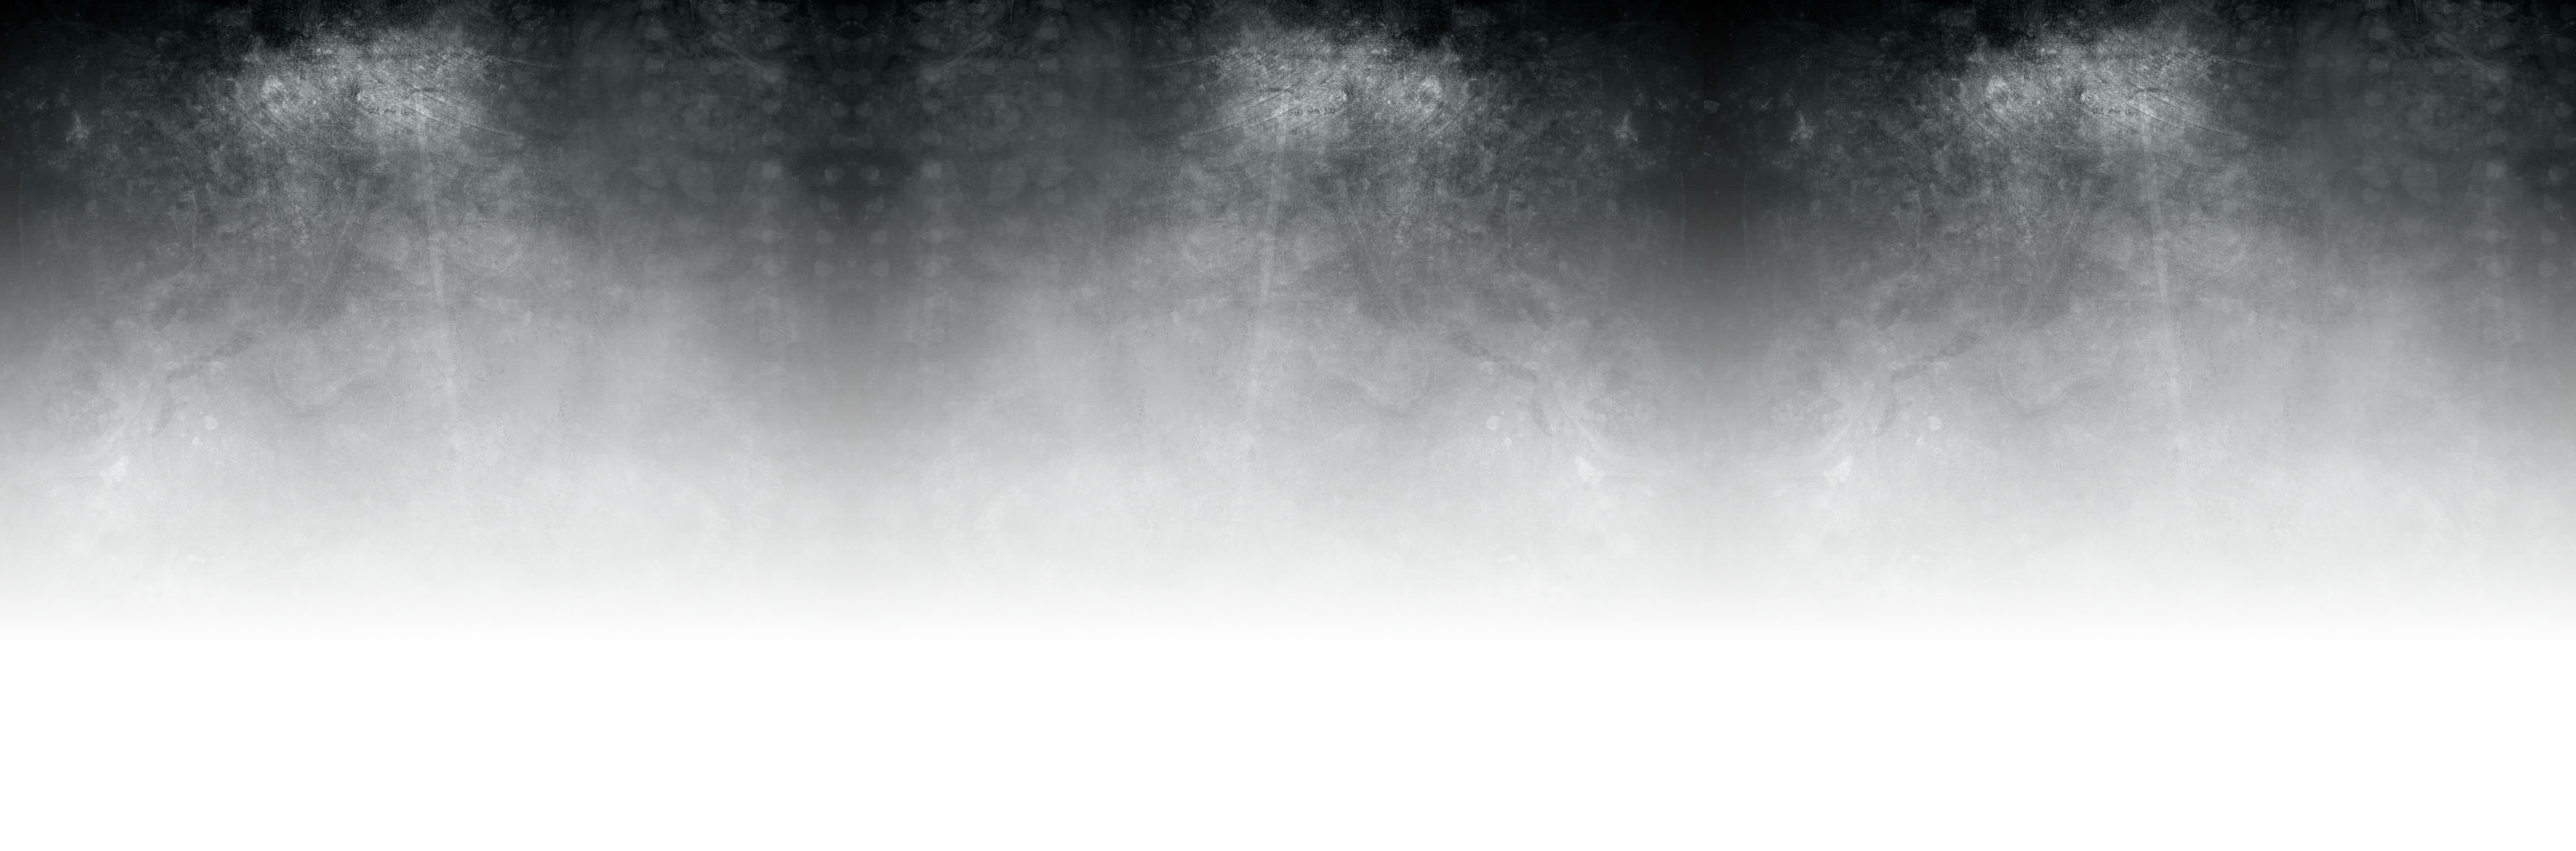
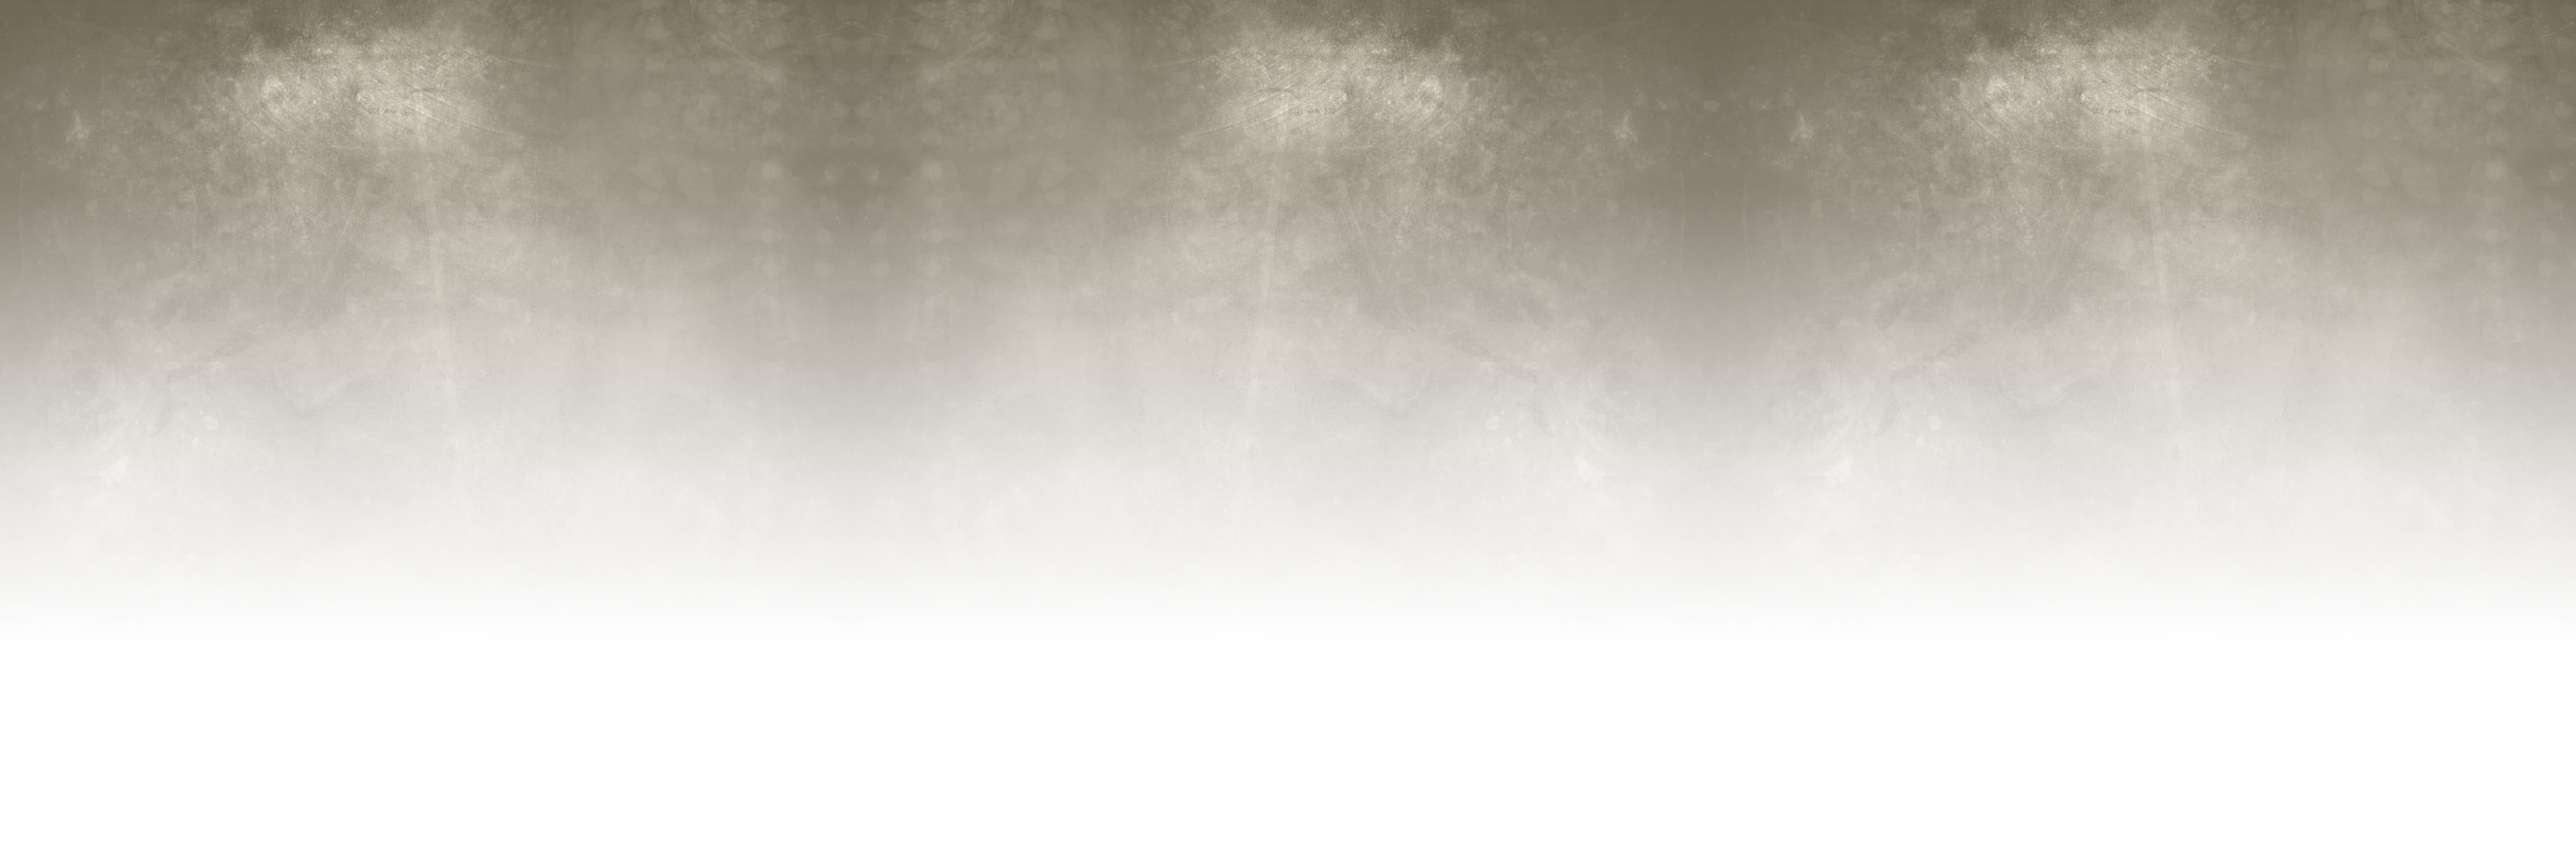
updated styles as per feedback.

diff --git a/css/main.css b/css/main.css
@@ -1,11 +1,11 @@
 body{
-    background:#091214 url("../img/bg_main.png") no-repeat top center;
-    color:#091214;
+    background:#d7c7aa url("../img/bg_main.png") repeat-x top center fixed;
+    color:#d7c7aa;
 }
 
 main{
     margin:0 auto;
-    background-color:#9094a1;
+    background-color:#3e3b35;
     overflow:auto;
 }
 
@@ -17,13 +17,11 @@ h1 {
 
 h2 {
     font-family: 'Droid Serif', serif;
-    color:#27342e;
-    text-shadow:1px 1px 1px #091214;
+    color:#bda67d;
 }
 
 p{
     font-family: 'Roboto', sans-serif;
-    color:#091214;
 }
 
 a, a:link{
@@ -37,22 +35,17 @@ a:hover, a:active{
 }
 
 a:visited{
-    color:#27342e;
-    border-bottom:1px solid #27342e;
+    border-bottom:1px solid #c7a224;
 }
 
 header{
     text-align:right;
-    background:#0d1226 url("../img/header_decoration.png") no-repeat top right;
+    background:#091214 url("../img/header_decoration.png") no-repeat top right;
     padding:2% 2% 1% 2%;
 }
 
 header img{
     float:left;
-}
-
-header h1, header p{
-    color:#9094a1;
 }
 
 nav {
@@ -68,14 +61,17 @@ nav ul{
 }
 
 nav ul li{
-    color:#9094a1;
     padding:1%;
 }
-nav ul li:hover{
+li a, li a:link{
+    color:#d7c7aa;
+}
+
+li.navselect a, li.navselect a:link{
     color:#c7a224;
 }
 
-.navselect{
+li a:hover, li a:active{
     color:#c7a224;
 }
 
@@ -90,34 +86,11 @@ section{
     padding:1%;
 }
 
-.color{
-    border:5px solid ghostwhite;
-    margin-bottom:1%;
-    height:3em;
-    width:96%;
-}
-
 .fltleft img{
     border:5px solid ghostwhite;
     margin-right:1%;
 }
 
-#color1{
-    background-color:#9094a1;
-}
-
-#color2{
-    background-color:#27342e;
-}
-#color3{
-    background-color:#0d1226;
-}
-#color4{
-    background-color:#c7a224;
-}
-#color5{
-    background-color:#091214;
-}
 
 input[type="button"]{
     font-family: 'Roboto', sans-serif;
@@ -130,25 +103,27 @@ input[type="button"]{
 
 input[type="submit"]{
     font-family: 'Roboto', sans-serif;
-    background-color:#0d1226;
+    background-color:#091214;
     color:#c7a224;
     border:none;
     padding:.5em;
     border-radius:4px;
+    display:block;
+    margin-top:10px;
 }
 
 input[type="submit"]:hover, input[type="button"]:hover, input[type="submit"]:active, input[type="button"]:active{
-    color:#9094a1;
+    color:#091214;
+    background-color:#d7c7aa;
 }
 
 footer{
-    background-color:#0d1226;
+    background-color:#091214;
     overflow:auto;
     margin:0 auto;
 }
 
 footer p{
-    color:#9094a1;
     text-align:center;
     font-size:.7em;
     padding:20px 0;
@@ -158,15 +133,15 @@ footer p{
     nav ul{
         width:100%;
     }
+    
     nav ul li{
         width:47%;
         display:inline-block;
     }
 
-    .color{
-        float:left;
-        width:16%;
-        margin-right:1%;
+    section{
+        width:90%;
+        margin:0 auto;
     }
 }
 
@@ -178,14 +153,13 @@ footer p{
 }
 
 @media screen and (min-width:680px){
-    .color{
-        float:left;
-        width:17%;
-        margin-right:1%;
-        height:4em;
-    }
     figure img{
         max-width:800px;
+    }
+    
+    section{
+        width:75%;
+        margin:0 auto;
     }
 }
 
@@ -207,10 +181,12 @@ footer p{
 
 @media screen and (min-width:1300px){
     main{
-        width:70%;
+        width:75%;
+        max-width:1200px;
     }
     
     footer{
-        width:70%;
+        width:75%;
+        max-width:1200px;
     }
 }
